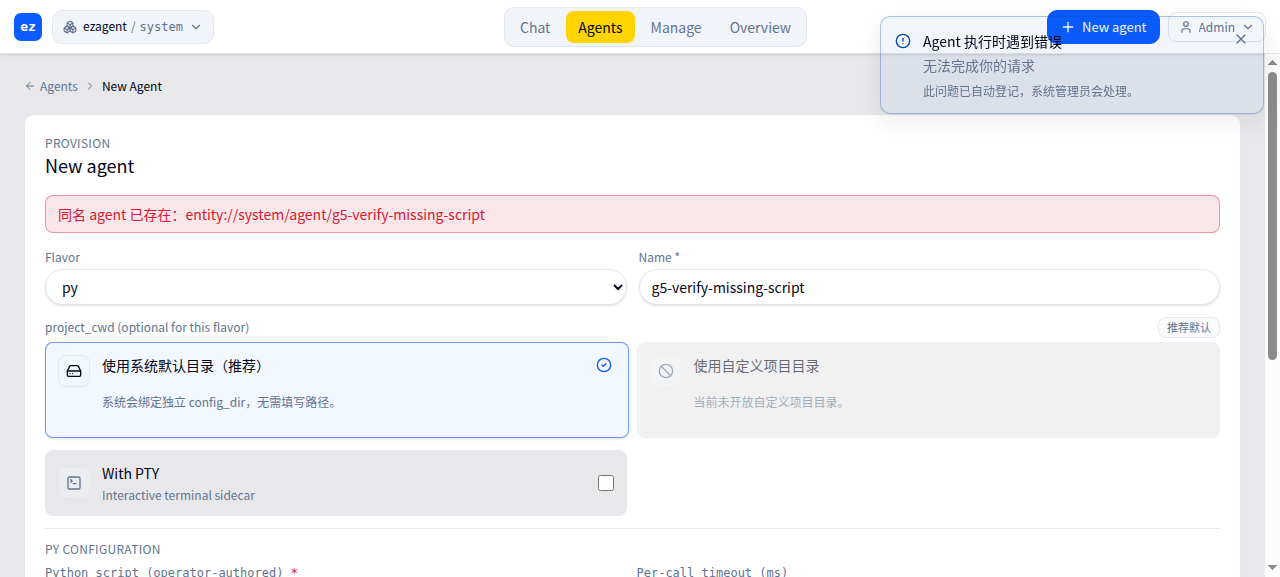
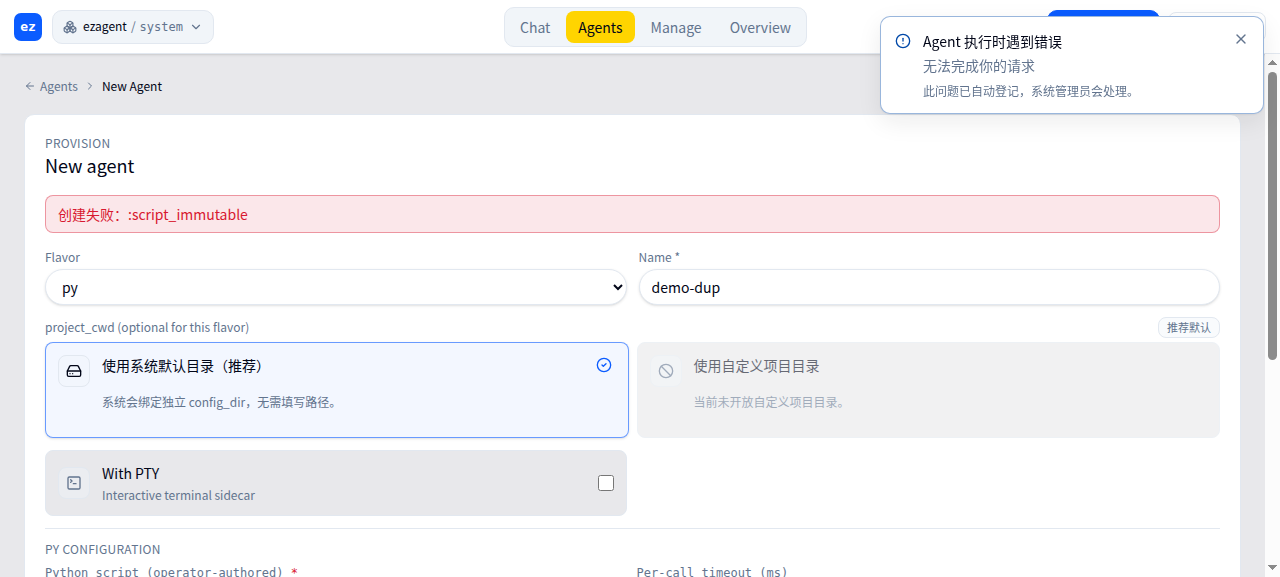
fix(world): make the G5 error toast background opaque
toast 浮起后 5% 透明色调背景会透出底下的页面内容;改为实心 bg-card,
tone 只体现在边框和图标上(与 core_components flash 的 bg-card 惯例一致)。
实机复测:computed backgroundColor = oklch(1 0 0),截图证据已更新。

Changed region(s): [[0.6875, 0.0, 1.0, 0.2184], [0.0312, 0.3432, 0.375, 0.4055], [0.5, 0.4679, 0.625, 0.5303]]

diff --git a/apps/ezagent_plugin_world/assets/src/components/ErrorMessageCard.tsx b/apps/ezagent_plugin_world/assets/src/components/ErrorMessageCard.tsx
@@ -13,12 +13,14 @@ type ErrorMessageCardProps = {
 export function ErrorMessageCard({error, onDismiss, onAction, onNavigate}: ErrorMessageCardProps) {
   const tone = categoryTone(error.category)
 
+  // 浮动 toast 必须不透明:背景用实心 bg-card,tone 只体现在边框和图标上
+  // （半透明色调浮在页面上方时,底下的内容会透过来）。
   const borderClass =
     tone === "danger"
-      ? "border-destructive/30 bg-destructive/5"
+      ? "border-destructive/40 bg-card"
       : tone === "warning"
-        ? "border-amber-500/30 bg-amber-500/5"
-        : "border-[var(--ez-blueink)]/30 bg-[var(--ez-blueink)]/5"
+        ? "border-amber-500/40 bg-card"
+        : "border-[var(--ez-blueink)]/40 bg-card"
 
   const iconClass =
     tone === "danger"

diff --git a/docs/together/2026-07-17/returns/g5-error-mechanism-frontend.md b/docs/together/2026-07-17/returns/g5-error-mechanism-frontend.md
@@ -140,6 +140,7 @@ dataset 有 error,DOM 无 `[data-error-code]` 卡片
 | 验证项 | 结果 |
 |---|---|
 | toast 浮动渲染(fixed,DOM 不被顶动) | PASS,证据 `../evidence/g5-live-error-toast.png` |
+| toast 背景不透明(实心 `bg-card`,tone 只体现在边框/图标;原 5% 透明色调会透出底下内容) | PASS(2026-07-18 复测) |
 | 5s 后自动消失 | PASS |
 | 相同错误再次触发 → toast 再次弹出 | PASS |
 | tsc / eslint / vitest(22) | PASS |
